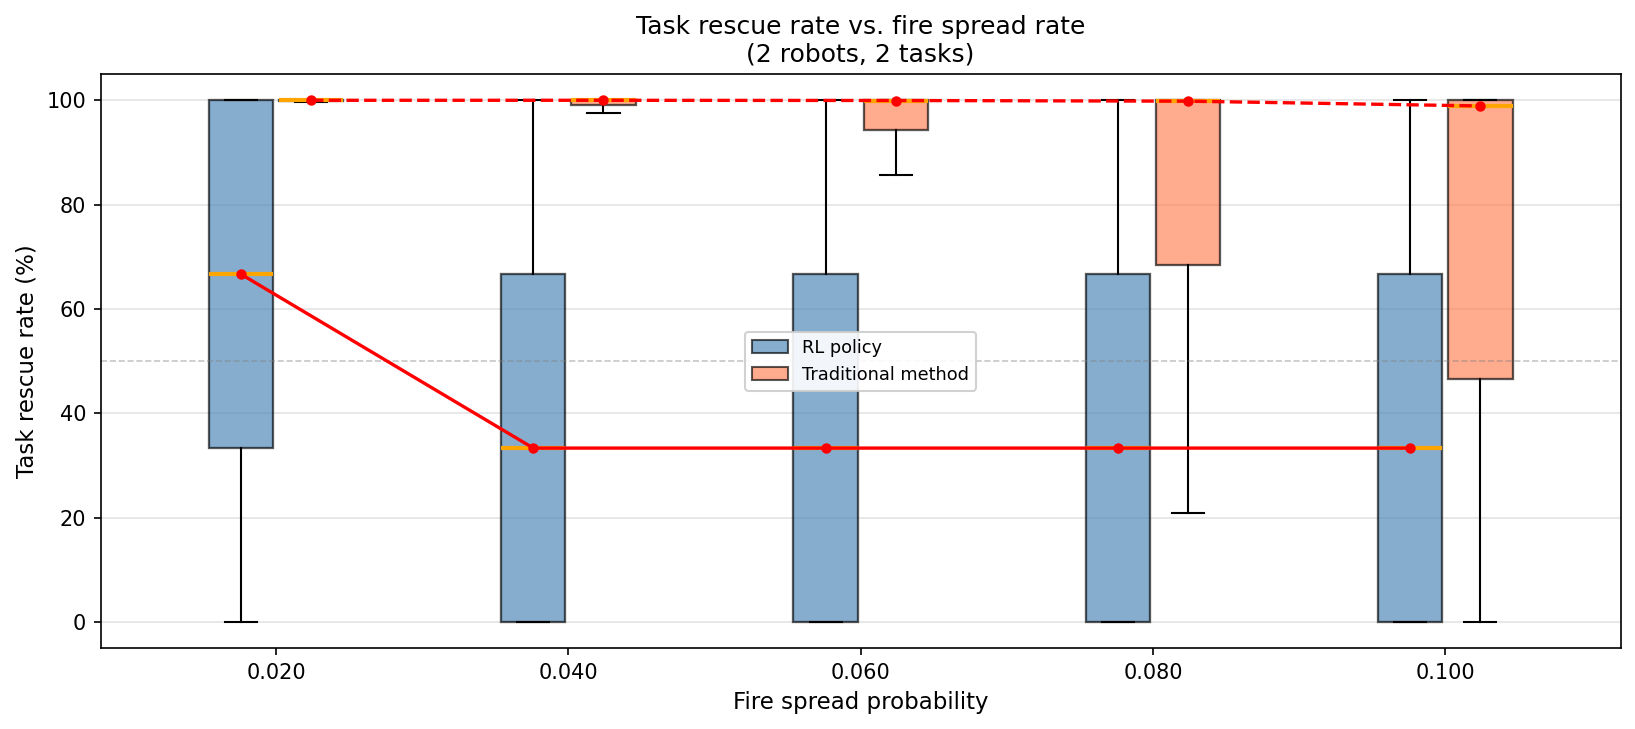
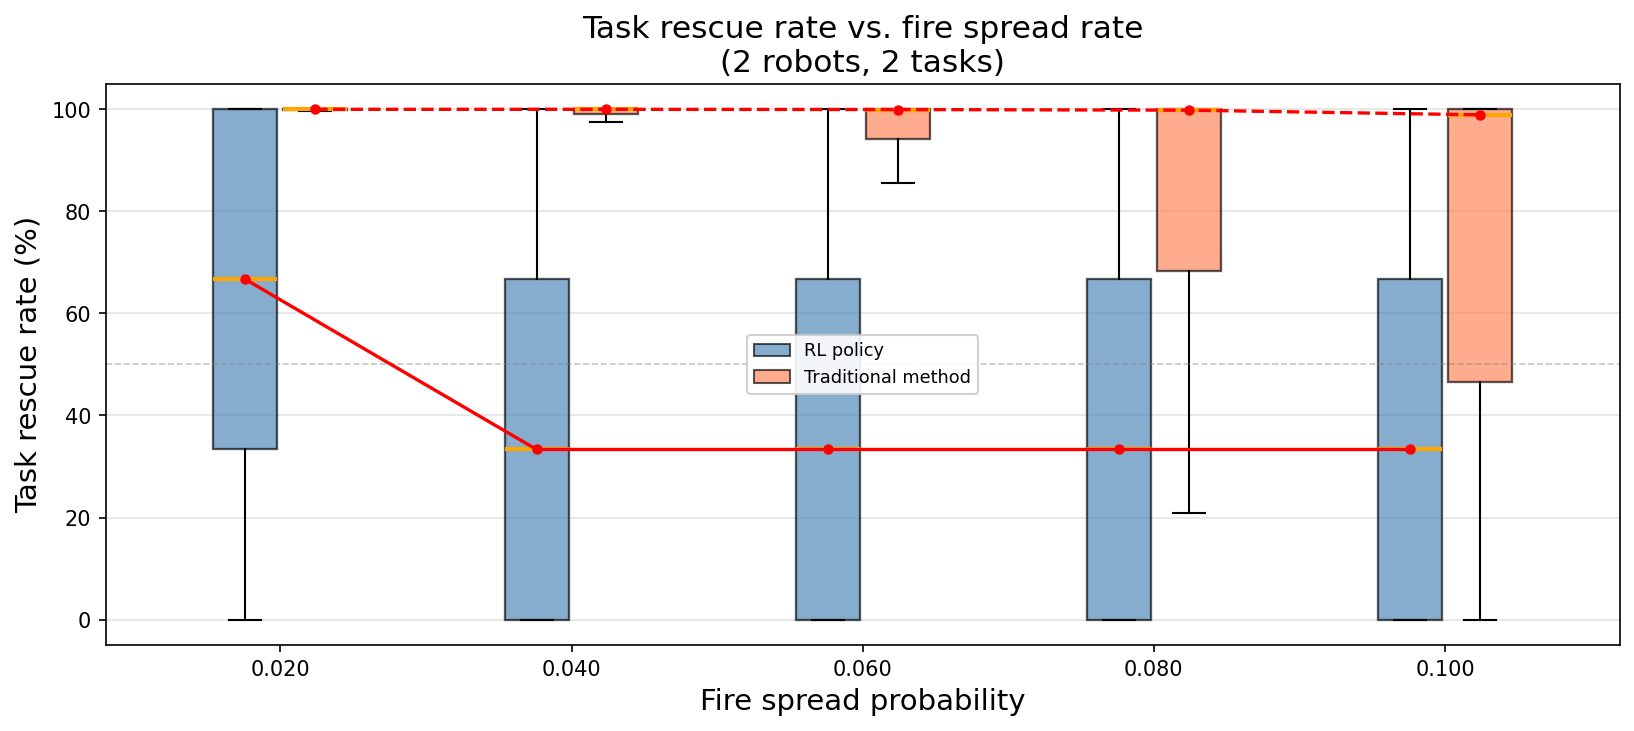
Update plotting font sizes

diff --git a/plot_comparison.py b/plot_comparison.py
@@ -174,9 +174,9 @@ def _comparison_plot(rl_rows, trad_rows, xlabel, title, out_path, label_fmt="{}"
     ax.set_xticklabels([_fmt_label(k, label_fmt) for k in all_keys])
     ax.set_xlim(0.4, n + 0.6)
     ax.set_ylim(-5, 105)
-    ax.set_xlabel(xlabel, fontsize=11)
-    ax.set_ylabel("Task rescue rate (%)", fontsize=11)
-    ax.set_title(title, fontsize=12)
+    ax.set_xlabel(xlabel, fontsize=14)
+    ax.set_ylabel("Task rescue rate (%)", fontsize=14)
+    ax.set_title(title, fontsize=15)
     ax.axhline(50, color="gray", linestyle="--", linewidth=0.8, alpha=0.45)
     ax.grid(True, axis="y", alpha=0.35)
 
@@ -295,7 +295,7 @@ def main():
             _read_rl_csv(rl_tasks),
             _read_trad_csv(tr_tasks),
             xlabel    = "Number of tasks",
-            title     = "Task rescue rate vs. number of tasks\n(2 robots, matched policy per task count)",
+            title     = "Task rescue rate vs. number of tasks\n(2 robots, varying task numbers)",
             out_path  = os.path.join(D, "comparison_tasks.png"),
         )
     else: